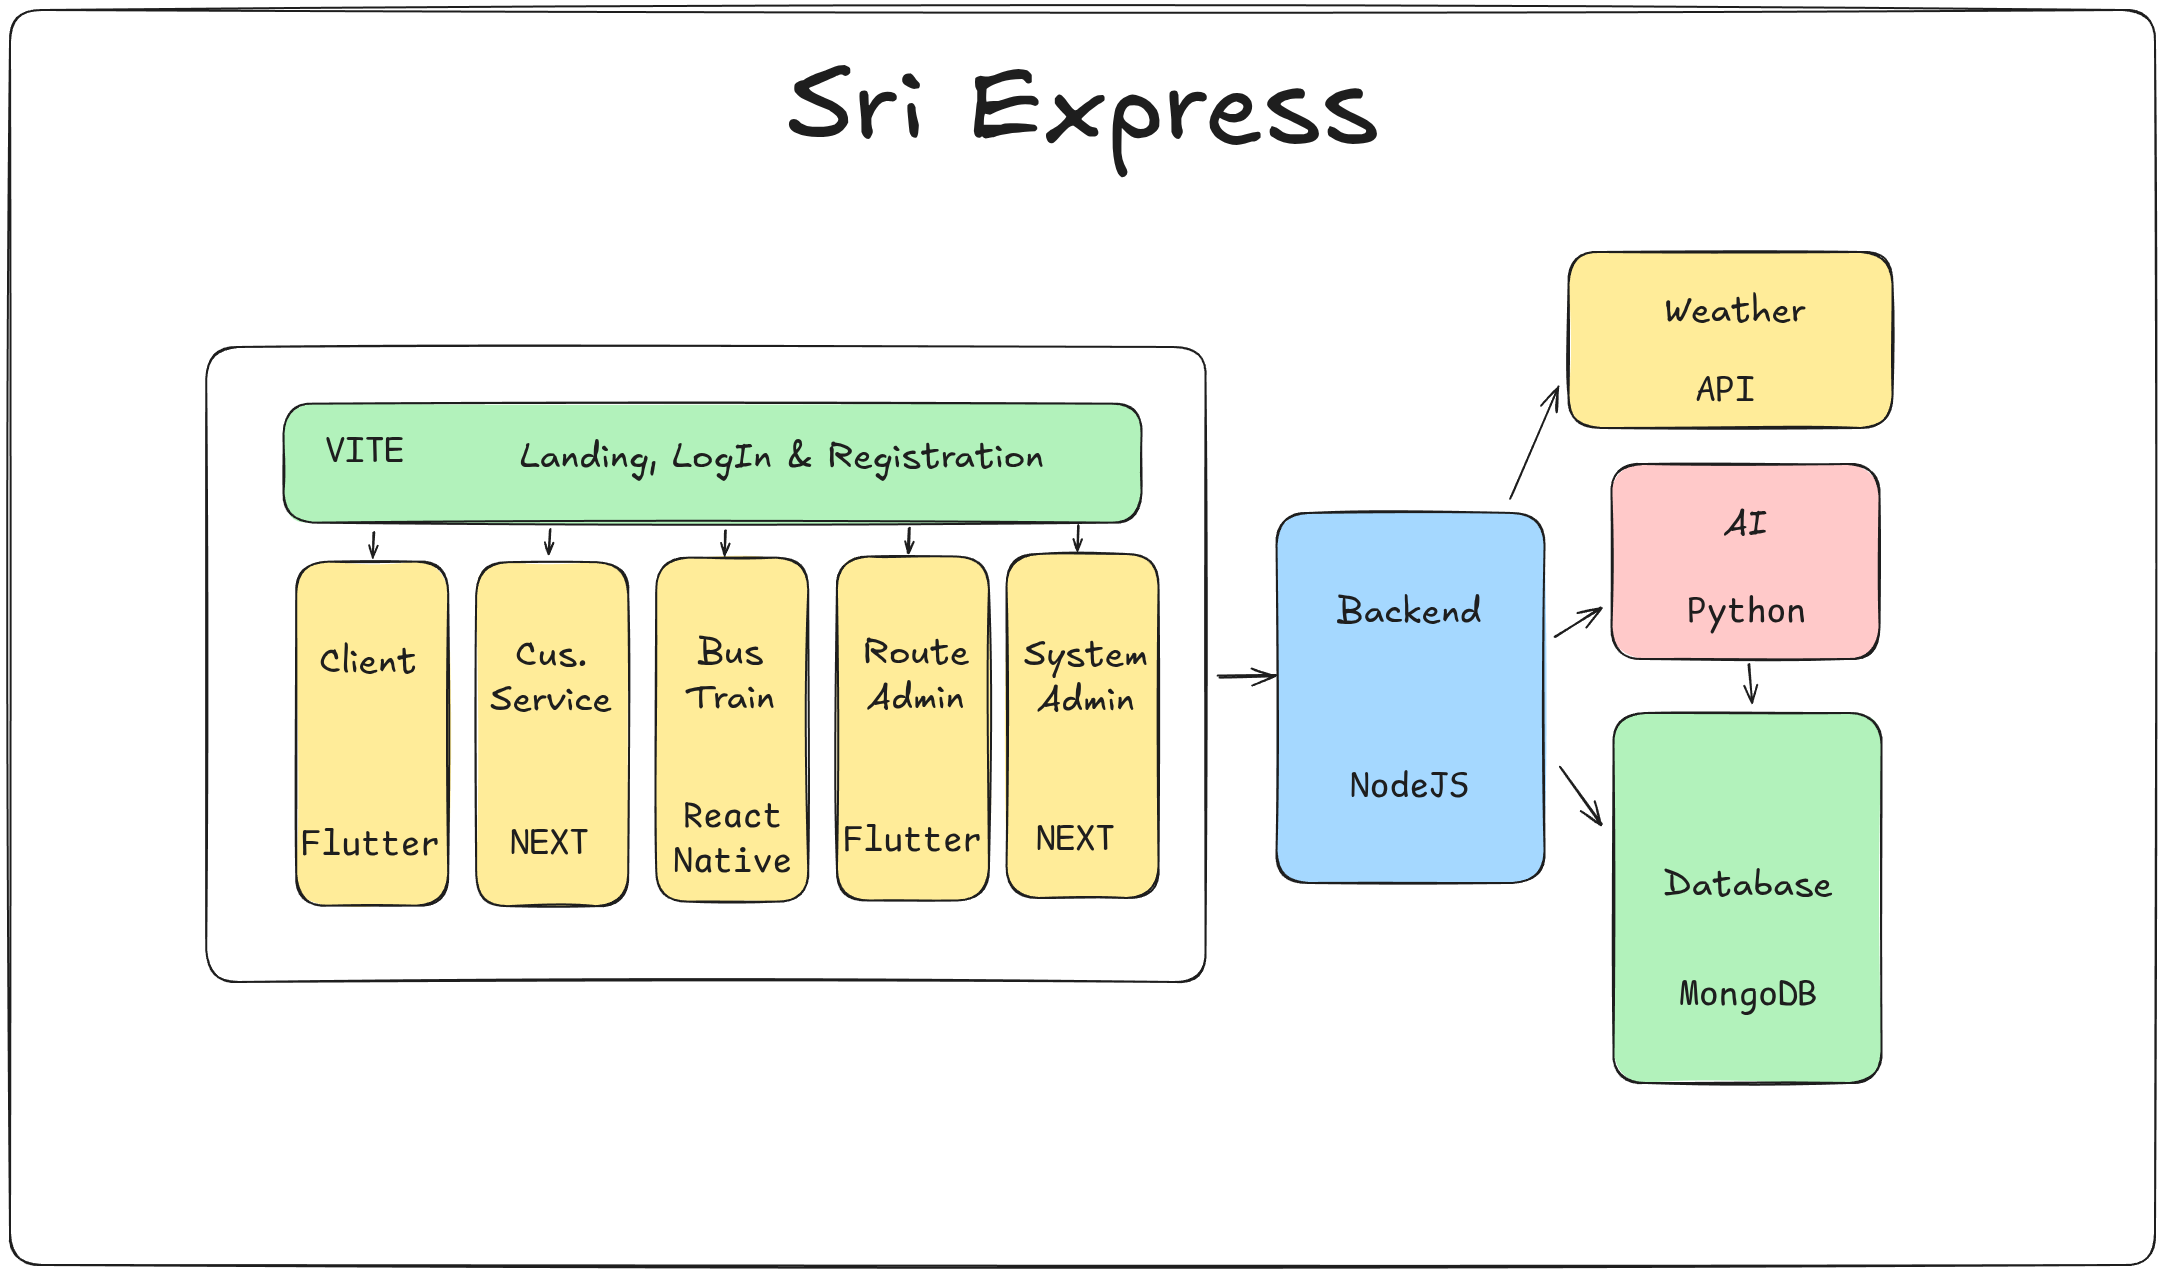
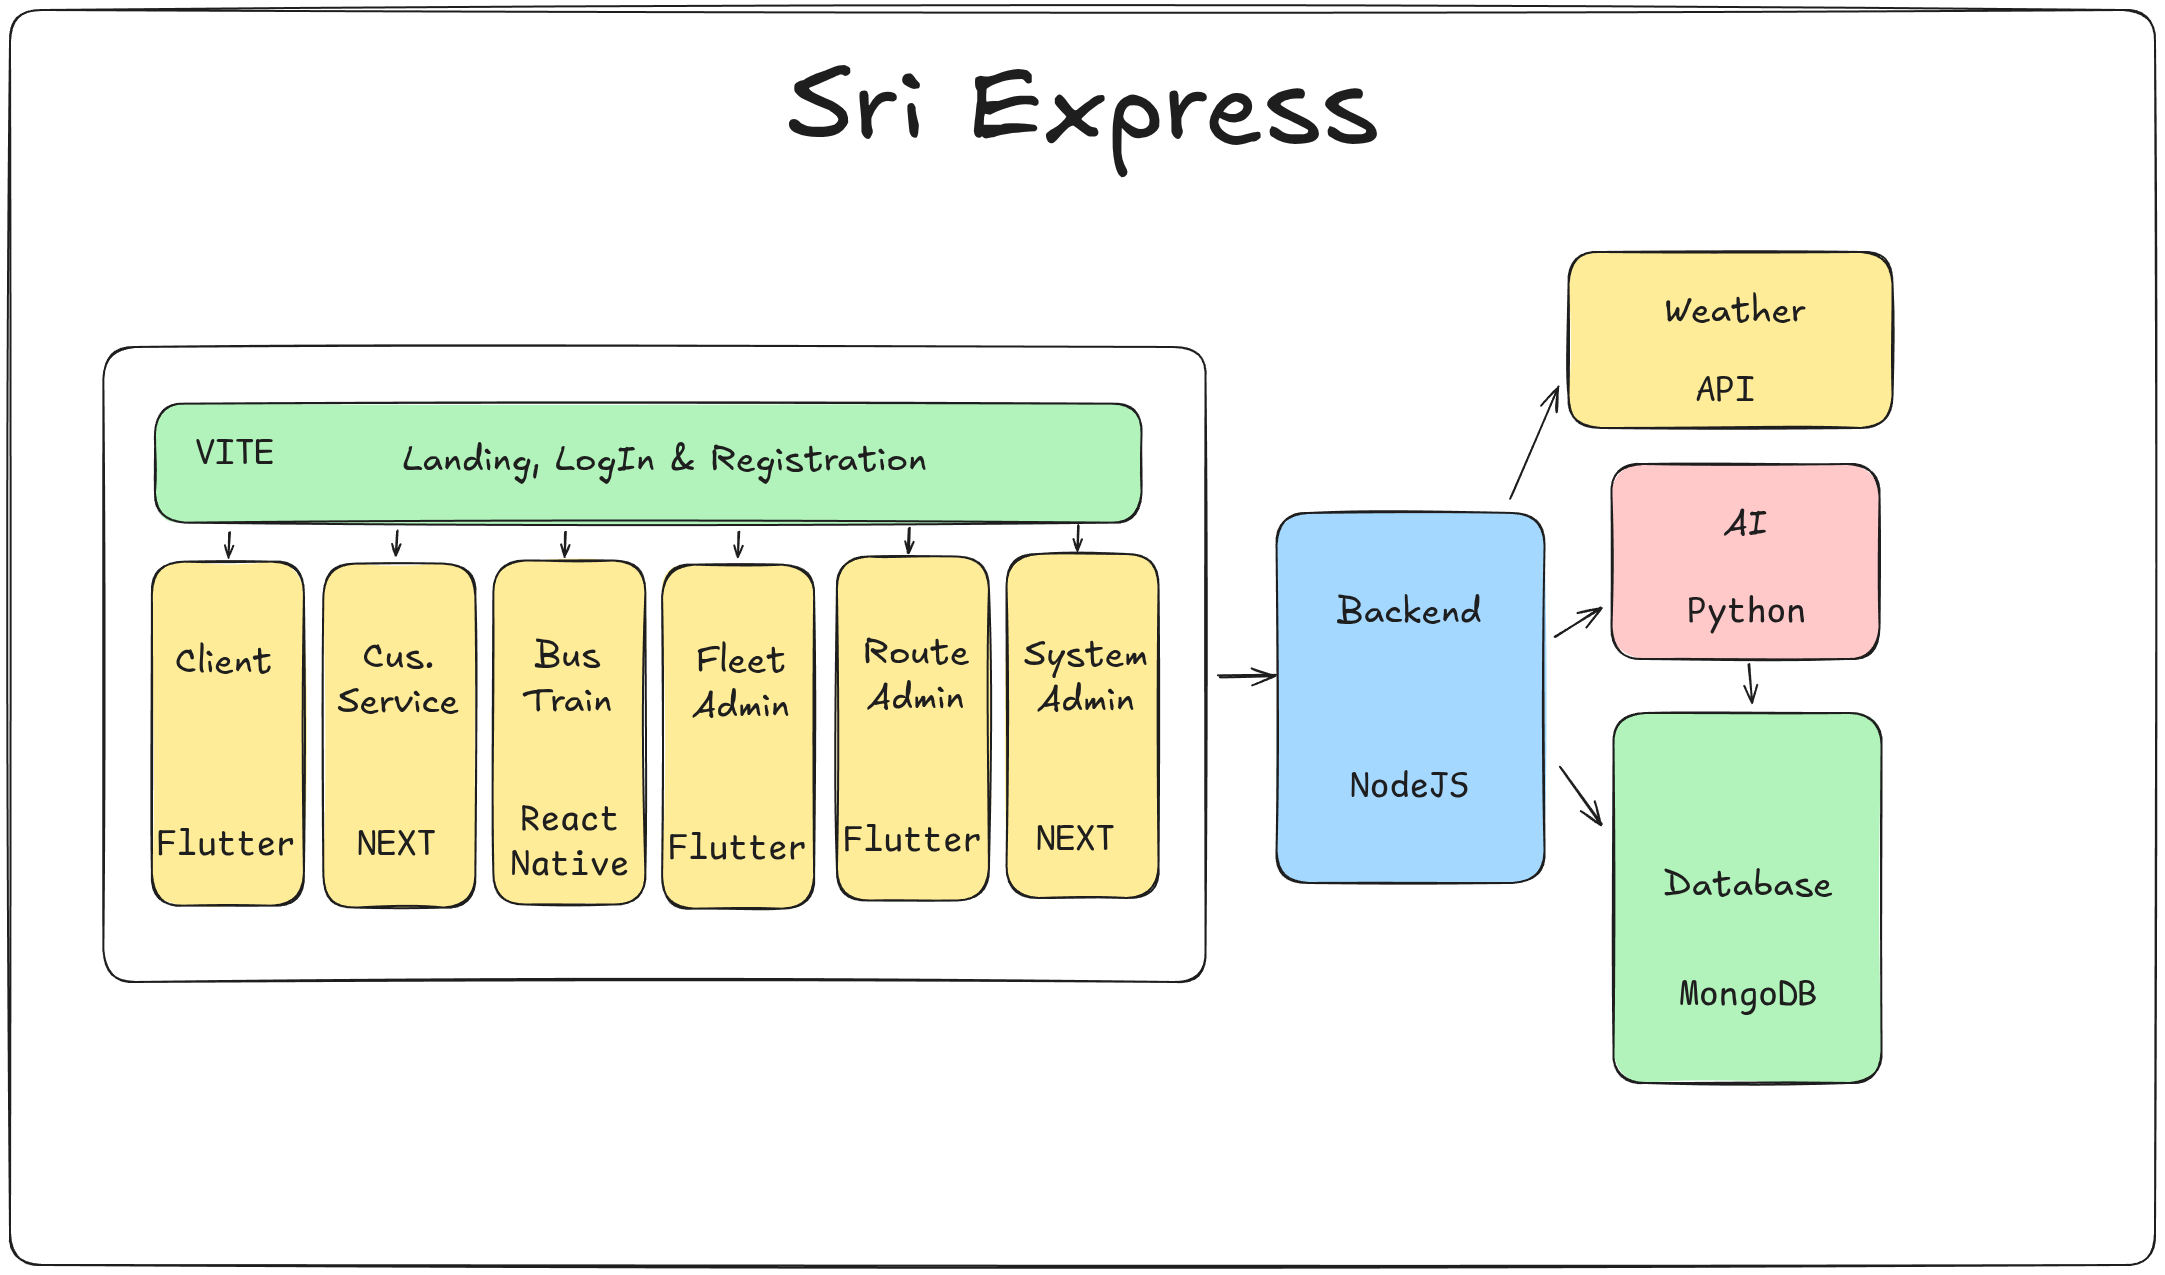
Enhanced the README file

Changed region(s): [[0.0619, 0.3059, 0.4952, 0.7341]]

diff --git a/profile/README.md b/profile/README.md
@@ -34,6 +34,46 @@ Sri Express is a comprehensive transportation management platform designed to st
 
 ![Sri Express Logo](Logo.jpeg)
 
+
+## Details and Functionality
+### Sri Express is a comprehensive transportation management platform designed to streamline client bookings, customer service, bus/train operations, and administrative tasks. The system leverages modern web and mobile technologies, AI, and robust backend services to deliver a seamless experience for users and administrators.
+
+### Landing, LogIn & Registration: Built with VITE for fast and modern web experiences.
+* The landing page provides an overview of the services offered by Sri Express, including features, pricing, and testimonials. 
+* The login and registration pages allow users to create accounts and access their profiles securely.
+### Client App: Developed using Flutter for cross-platform mobile support.
+* The client application will show estimated arrival times and provide real-time updates on bus/train schedules.
+* Secondaraly Users can book tickets, manage their bookings, and receive notifications about their trips.
+* Raise complaints and provide feedback on their experiences.
+** Automated Chatbot with automatically generated responses to common queries and escalation to customer service when needed.
+
+
+### Customer Service Portal: Built with Next.js for efficient server-side rendering.
+* The customer service portal allows support agents to manage client inquiries, complaints, and feedback.
+
+
+### Bus/Train Operations: Managed via a React Native application.
+* A fixed device on buses and trains will be used to track the location of the vehicle in real-time, along with other metrics such as driving patterns for AI analysis.
+* A map interface will show the map of the bus or train with the current location of the vehicle and the estimated time of arrival at the next stop.
+
+### Route Admin: Flutter-based interface for route management.
+* The route admin application allows administrators to manage bus/train routes, schedules, and stops.
+** Routes to be added and modified as per the requirements of the day.
+* The bus/train operations to be viewed and confirmed 15 minutes before the start of the journey.
+
+### Fleet Manager: Next.js application for fleet management of large transport companies.
+* The fleet manager application allows large transport companies to adding and manage their fleet of buses/trains, including maintenance schedules, driver assignments, and performance metrics pending System Admin approval.
+* Fleet managers can view real-time data on vehicle locations, driving patterns, and other metrics to optimize operations.
+* Revenue and cost estimates for the fleet can be generated based on the data collected from the vehicles, with the planned ticketing system.
+
+### System Admin: Next.js application for system-wide administration.
+* The system admin application allows administrators to manage user accounts, roles, and permissions.
+* System admins can view analytics and reports on system usage, performance, and user feedback.
+* The system admin application also provides tools for managing the AI module, including training and testing data sets.
+* Activating and deactivating the AI module for the system.
+* Approving or rejecting bus registration requests from the bus/train fleet managers.
+
+
 ## Getting Started
 
 > _Project source code and setup instructions will be provided in future updates._
